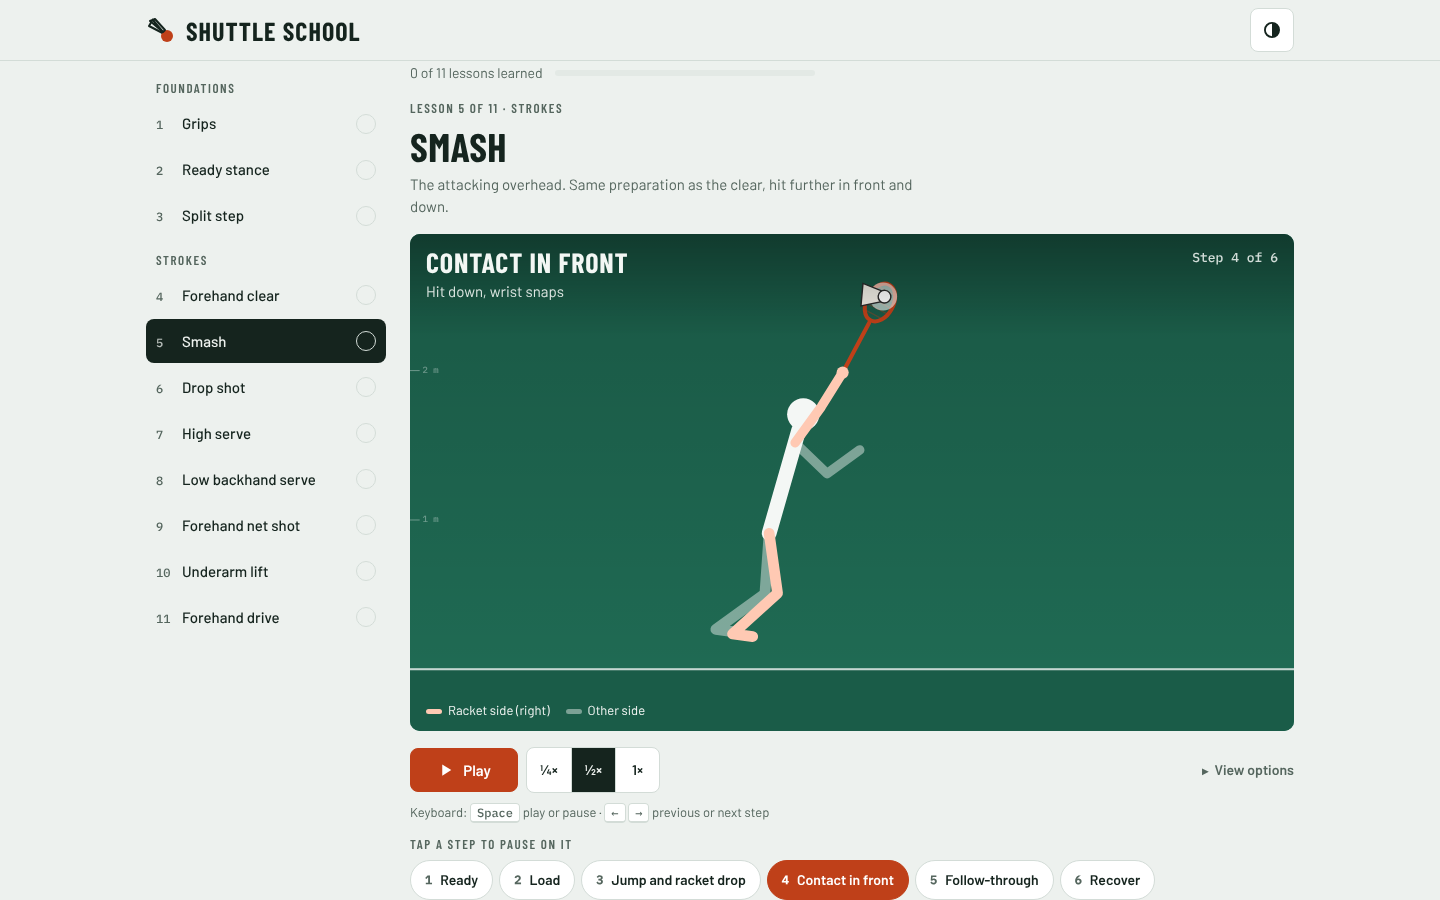
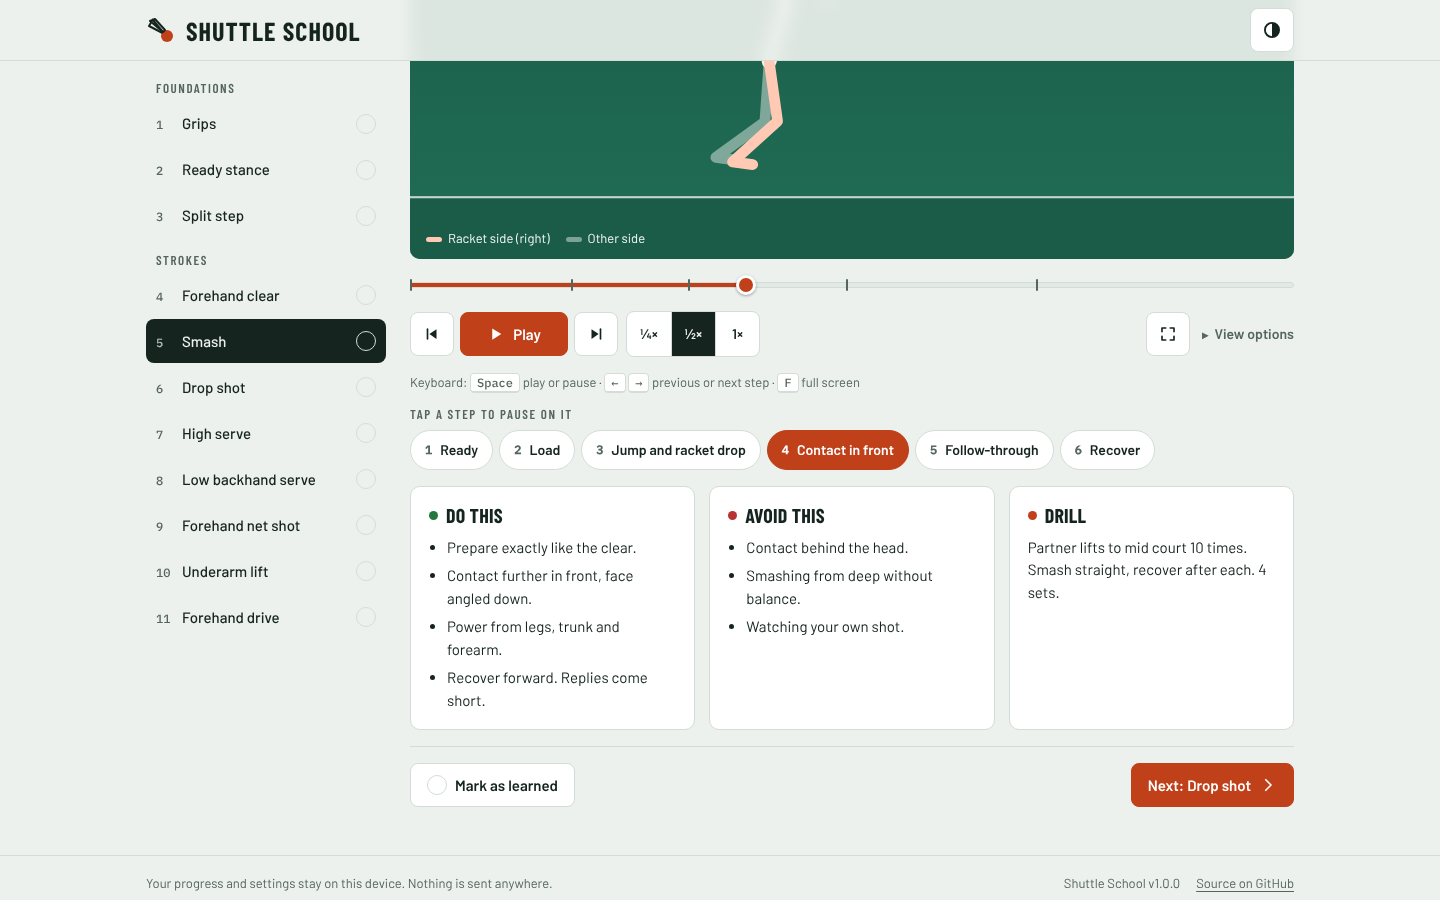
Document the 1.0.0 release
Update the README, and add a changelog, contributing guide and security
policy. Refresh screenshots.

diff --git a/README.md b/README.md
@@ -1,12 +1,11 @@
 # Shuttle School
 
 [![CI](https://github.com/buvann-11/shuttle-school/actions/workflows/ci.yml/badge.svg)](https://github.com/buvann-11/shuttle-school/actions/workflows/ci.yml)
-[![Deploy](https://github.com/buvann-11/shuttle-school/actions/workflows/deploy.yml/badge.svg)](https://github.com/buvann-11/shuttle-school/actions/workflows/deploy.yml)
 [![License: MIT](https://img.shields.io/badge/license-MIT-green.svg)](LICENSE)
 
 Learn badminton strokes visually, step by step, without a coach.
 
-**Live:** https://buvann-11.github.io/shuttle-school/
+**Try it:** https://buvann-11.github.io/shuttle-school/
 
 <p>
   <img src="docs/screenshots/laptop.png" alt="Smash lesson on a laptop, paused at the contact step" width="68%">
@@ -18,28 +17,38 @@ Learn badminton strokes visually, step by step, without a coach.
 Each lesson is an animated side-on figure that performs the stroke, broken into named steps with a coaching cue for each one.
 
 - **11 lessons** across Foundations (grips, ready stance, split step) and Strokes (clear, smash, drop, high and low serves, net shot, lift, drive).
-- **Step through it**: pause on any step, scrub with the arrow keys, slow it to ¼ speed, show the racket path or every step at once.
+- **Study the motion**: drag the seek bar frame by frame, jump step to step, slow it to ¼ speed, show the racket path or every step at once, or go full screen.
 - **Left-handed mode** mirrors every lesson.
 - **Read steps aloud** for practising without looking at the screen.
 - **Progress** is saved on the device, and returning learners resume at their next unlearned lesson.
-- **Installable and offline**: a service worker precaches the app, so it works on court with no signal.
+- **Installable and offline**: install it like an app and use it on court with no signal. It tells you when an update is ready.
 - **Light and dark themes**, following the device or set manually.
+- **Private by design**: no accounts, no tracking, nothing leaves the device.
+
+### Keyboard
+
+| Key     | Action                |
+| ------- | --------------------- |
+| `Space` | Play or pause         |
+| `←` `→` | Previous or next step |
+| `F`     | Full screen           |
 
 ## Quality bar
 
-| Area          | How it is enforced                                                                                              |
-| ------------- | --------------------------------------------------------------------------------------------------------------- |
-| Types         | TypeScript `strict` plus `noUncheckedIndexedAccess` and `exactOptionalPropertyTypes`                            |
-| Lint          | ESLint with `strictTypeChecked`, React Hooks and `jsx-a11y`; zero warnings allowed                              |
-| Unit tests    | 90+ Vitest tests; coverage gate of 90% lines                                                                    |
-| Content       | Every lesson is validated against a Zod schema in CI (timing, joint names, shuttle contact frame, unique ids)   |
-| End-to-end    | Playwright on laptop, Android and iPhone viewports: learning flow, persistence, live animation, offline mode    |
-| Accessibility | axe-core (WCAG 2.2 AA) in light and dark themes, no horizontal scroll, minimum tap sizes, full keyboard control |
-| Lighthouse    | Accessibility 100, Best Practices 100                                                                           |
+| Area          | How it is enforced                                                                                                  |
+| ------------- | ------------------------------------------------------------------------------------------------------------------- |
+| Types         | TypeScript `strict` plus `noUncheckedIndexedAccess` and `exactOptionalPropertyTypes`                                |
+| Lint          | ESLint `strictTypeChecked`, React Hooks and `jsx-a11y`; zero warnings allowed                                       |
+| Unit tests    | 120+ Vitest and Testing Library tests; coverage gate of 90% lines (currently ~97%)                                  |
+| Content       | Every lesson is validated against a Zod schema (timing, joint names, shuttle contact frame, unique ids)             |
+| End-to-end    | 45 Playwright tests across laptop, Android and iPhone viewports: learning flow, seek bar, persistence, offline mode |
+| Accessibility | axe-core (WCAG 2.2 AA) in light and dark themes, no sideways scroll, minimum tap sizes, full keyboard control       |
+| Security      | Strict Content Security Policy (no `unsafe-inline`), production dependencies audited in CI                          |
+| Lighthouse    | Desktop: 100 in all four categories. Mobile: Performance 90+, Accessibility, Best Practices and SEO 100             |
 
 ## Tech stack
 
-React 19 · TypeScript · Vite · React Router · Canvas 2D · Vitest + Testing Library · Playwright + axe-core · GitHub Actions
+React 19 · TypeScript · Vite · React Router · Canvas 2D · Vitest + Testing Library · Playwright + axe-core · GitHub Actions · GitHub Pages
 
 ## Getting started
 
@@ -67,18 +76,18 @@ First time running end-to-end tests: `npx playwright install chromium`.
 
 ```
 src/
-  app/            App shell: layout, header, routes, not-found page
-  components/     Reusable UI: Button, Segmented, Switch, ProgressBar, icons
-  content/        lessons.json, its Zod schema, and the typed lesson library
-  engine/         Framework-free animation core
-    pose.ts         Forward kinematics for the stick figure
-    timeline.ts     Keyframe timing, easing and step sampling
-    shuttle.ts      Shuttle flight in and out of the contact point
-    render.ts       Canvas drawing for figure and grip scenes
-  features/lessons/  Lesson page: player, stage, controls, steps, notes
-  lib/            Persistent stores (progress, settings), media queries, speech
-e2e/              Playwright tests
-scripts/          Build plugin that generates the offline service worker
+  app/               App shell: layout, header, footer, routes, error and not-found pages, update notice
+  components/        Reusable UI: Button, Segmented, Switch, ProgressBar, icons
+  content/           lessons.json, its Zod schema, and the typed lesson library
+  engine/            Framework-free animation core
+    pose.ts            Forward kinematics for the stick figure
+    timeline.ts        Keyframe timing, easing and step sampling
+    shuttle.ts         Shuttle flight in and out of the contact point
+    render.ts          Canvas drawing for figure and grip scenes
+  features/lessons/  Lesson page: player, stage, seek bar, controls, steps, notes
+  lib/               Persistent stores, install/update handling, full screen, media queries, speech
+e2e/                 Playwright tests
+scripts/             Build plugins: offline service worker, CSP, font preloads, 404 page
 ```
 
 ### How a lesson becomes an animation
@@ -86,15 +95,25 @@ scripts/          Build plugin that generates the offline service worker
 1. A lesson in `src/content/lessons.json` is a list of keyframes. Each keyframe names a step, a coaching cue, how long the move into it takes, and the joint angles that differ from the ready stance.
 2. `timeline.ts` turns durations into a looping timeline and finds the current step at any moment.
 3. `pose.ts` blends neighbouring keyframes and runs forward kinematics to get joint positions.
-4. `render.ts` draws the court, figure, racket, trail and shuttle on a canvas that is sized to the element and the screen's pixel density.
+4. `render.ts` draws the court, figure, racket, trail and shuttle on a canvas sized to the element and the screen's pixel density.
 
-Adding a lesson is a content change only: add an entry to `lessons.json`, and the schema test tells you if anything is wrong.
+The animation only runs while it is on screen and the tab is visible, and it starts after the page has settled, so it never slows down loading.
+
+Adding a lesson is a content change only; see [CONTRIBUTING.md](CONTRIBUTING.md).
 
 ## Deployment
 
-Every push to `main` runs CI, then deploys to GitHub Pages. To enable it on a fork, set **Settings → Pages → Source** to **GitHub Actions**.
+Every push and pull request runs CI. When a commit on `main` passes every check (format, lint, types, unit tests, build and end-to-end tests), the same workflow builds the site and deploys it to GitHub Pages.
 
-The app uses hash routing and relative asset paths, so the same build works on any static host.
+**First-time setup** (once per repository): **Settings → Pages → Build and deployment → Source: GitHub Actions**.
+
+The build uses hash routing and a configurable base path, so it runs on any static host:
+
+```bash
+BASE_PATH=/ VITE_SITE_URL=https://example.com/ npm run build   # then upload dist/
+```
+
+`VITE_SITE_URL` sets the canonical URL and the link-preview image address.
 
 ## Roadmap
 
@@ -103,6 +122,10 @@ The app uses hash routing and relative asset paths, so the same build works on a
 - Court guide: footwork patterns, shot paths with shuttle drag, serving rules
 - Rules and technique quiz
 - Backhand strokes, jump smash, defensive block, doubles formations
+
+## Contributing
+
+Bug reports, technique corrections and pull requests are welcome. See [CONTRIBUTING.md](CONTRIBUTING.md) and [CHANGELOG.md](CHANGELOG.md).
 
 ## License
 

diff --git a/CONTRIBUTING.md b/CONTRIBUTING.md
@@ -1,0 +1,58 @@
+# Contributing
+
+Thanks for helping people learn badminton. Bug reports, technique corrections and code are all welcome.
+
+## Setup
+
+Node.js 20.19+ is required (`.nvmrc` pins the version CI uses).
+
+```bash
+npm install
+npm run dev
+```
+
+Before opening a pull request:
+
+```bash
+npm run check        # format, lint, types, unit tests with coverage gate, build
+npm run test:e2e     # browser tests (first time: npx playwright install chromium)
+```
+
+CI runs the same commands, and the site only deploys when all of them pass on `main`.
+
+## Adding or editing a lesson
+
+Lessons are data, not code. Everything lives in [`src/content/lessons.json`](src/content/lessons.json).
+
+Each lesson has:
+
+| Field                         | Meaning                                                                     |
+| ----------------------------- | --------------------------------------------------------------------------- |
+| `id`                          | URL slug, lowercase kebab-case (`backhand-clear`)                           |
+| `level`                       | `Foundations` or `Strokes`                                                  |
+| `kind`                        | `figure` (animated player) or `grip` (handle diagram)                       |
+| `keys`                        | Keyframes. Each has a `label`, a coaching `cue` and a `duration` in ms      |
+| `keys[].pose`                 | Joint angles in degrees that differ from the ready stance (see `pose.ts`)   |
+| `keys[].linear`               | Use linear timing into this keyframe (good for the hit itself)              |
+| `shuttle`                     | Optional shuttle flight; `contactKey` is the keyframe where the racket hits |
+| `points`, `mistakes`, `drill` | The coaching notes under the player                                         |
+
+Rules the schema enforces (`npm test` will tell you exactly what's wrong):
+
+- The first keyframe has `duration: 0`; every later one is longer than 0.
+- Joint names must be one of those in `POSE_KEYS`.
+- `shuttle.contactKey` must point at a real keyframe.
+- Ids are unique.
+
+Tip: run `npm run dev`, open the lesson, pause and use the ← → keys or the seek bar to check each keyframe.
+
+## Code style
+
+- TypeScript strict mode, no `any`. Prettier formats; ESLint (with jsx-a11y) must report zero warnings.
+- Keep the animation engine (`src/engine`) free of React so it stays easy to test.
+- Every interactive element needs an accessible name and must work from the keyboard.
+- Add a test with every behaviour change. Coverage must stay above 90% of lines.
+
+## Commit messages
+
+Short imperative summary (`Add backhand clear lesson`), then a blank line and the why, if it isn't obvious.

diff --git a/CHANGELOG.md b/CHANGELOG.md
@@ -1,0 +1,35 @@
+# Changelog
+
+All notable changes are listed here. The format follows [Keep a Changelog](https://keepachangelog.com/en/1.1.0/) and the project uses [Semantic Versioning](https://semver.org/).
+
+## [1.0.0] - 2026-11-07
+
+First public release.
+
+### Lessons
+
+- 11 animated lessons: grips, ready stance, split step, forehand clear, smash, drop shot, high serve, low backhand serve, forehand net shot, underarm lift and forehand drive.
+- Each step has a name and a coaching cue, plus "Do this", "Avoid this" and a drill for every lesson.
+
+### Player
+
+- Seek bar with a mark at every step; drag it to study the motion frame by frame.
+- Previous and next step buttons, tappable step list, and keyboard control (Space, ← →, F).
+- ¼, ½ and 1× speed, racket path, all-steps-at-once view, left-handed mode, steps read aloud.
+- Full-screen mode where the browser supports it.
+
+### App
+
+- Progress saved on the device; returning learners resume at their next unlearned lesson.
+- Light and dark themes, following the device or chosen manually.
+- Installable app that works offline, with an "Install app" button where the browser offers one and a notice when an update is ready.
+- Friendly error and not-found pages.
+
+### Quality and deployment
+
+- Strict TypeScript, zero-warning ESLint with accessibility rules, 120+ unit and component tests (90% coverage gate).
+- Playwright tests on laptop, Android and iPhone sizes, including WCAG 2.2 AA checks in both themes, offline use, and a no-console-errors check.
+- Content Security Policy, link-preview image and tags, GitHub Pages 404 redirect.
+- CI on every push and pull request; the site deploys only when every check passes on `main`.
+
+[1.0.0]: https://github.com/buvann-11/shuttle-school/releases/tag/v1.0.0

diff --git a/SECURITY.md b/SECURITY.md
@@ -1,0 +1,7 @@
+# Security
+
+Shuttle School is a static site. It has no server, no accounts and no analytics, and it never sends your data anywhere: progress and settings live in your browser's local storage.
+
+The production build ships a strict Content Security Policy (scripts, styles, fonts and images from the site's own origin only; the one inline script is allowed by hash).
+
+If you find a security problem, please use GitHub's **Report a vulnerability** button on the repository's Security tab rather than opening a public issue.
